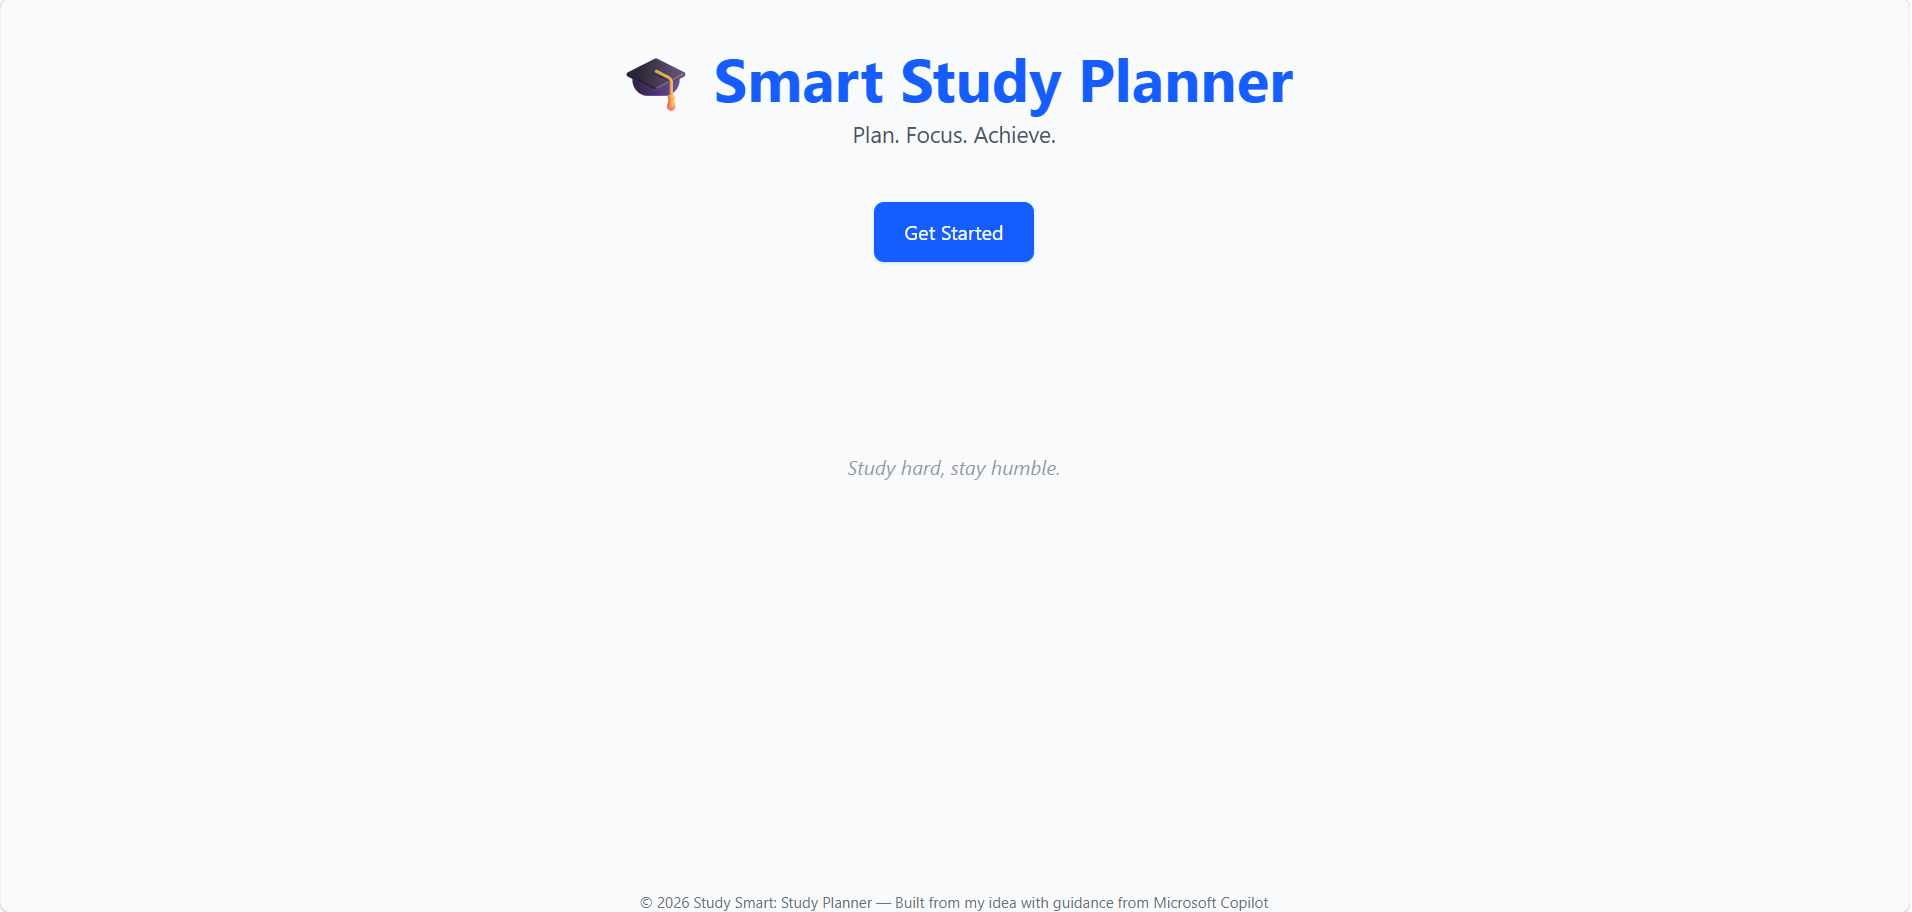
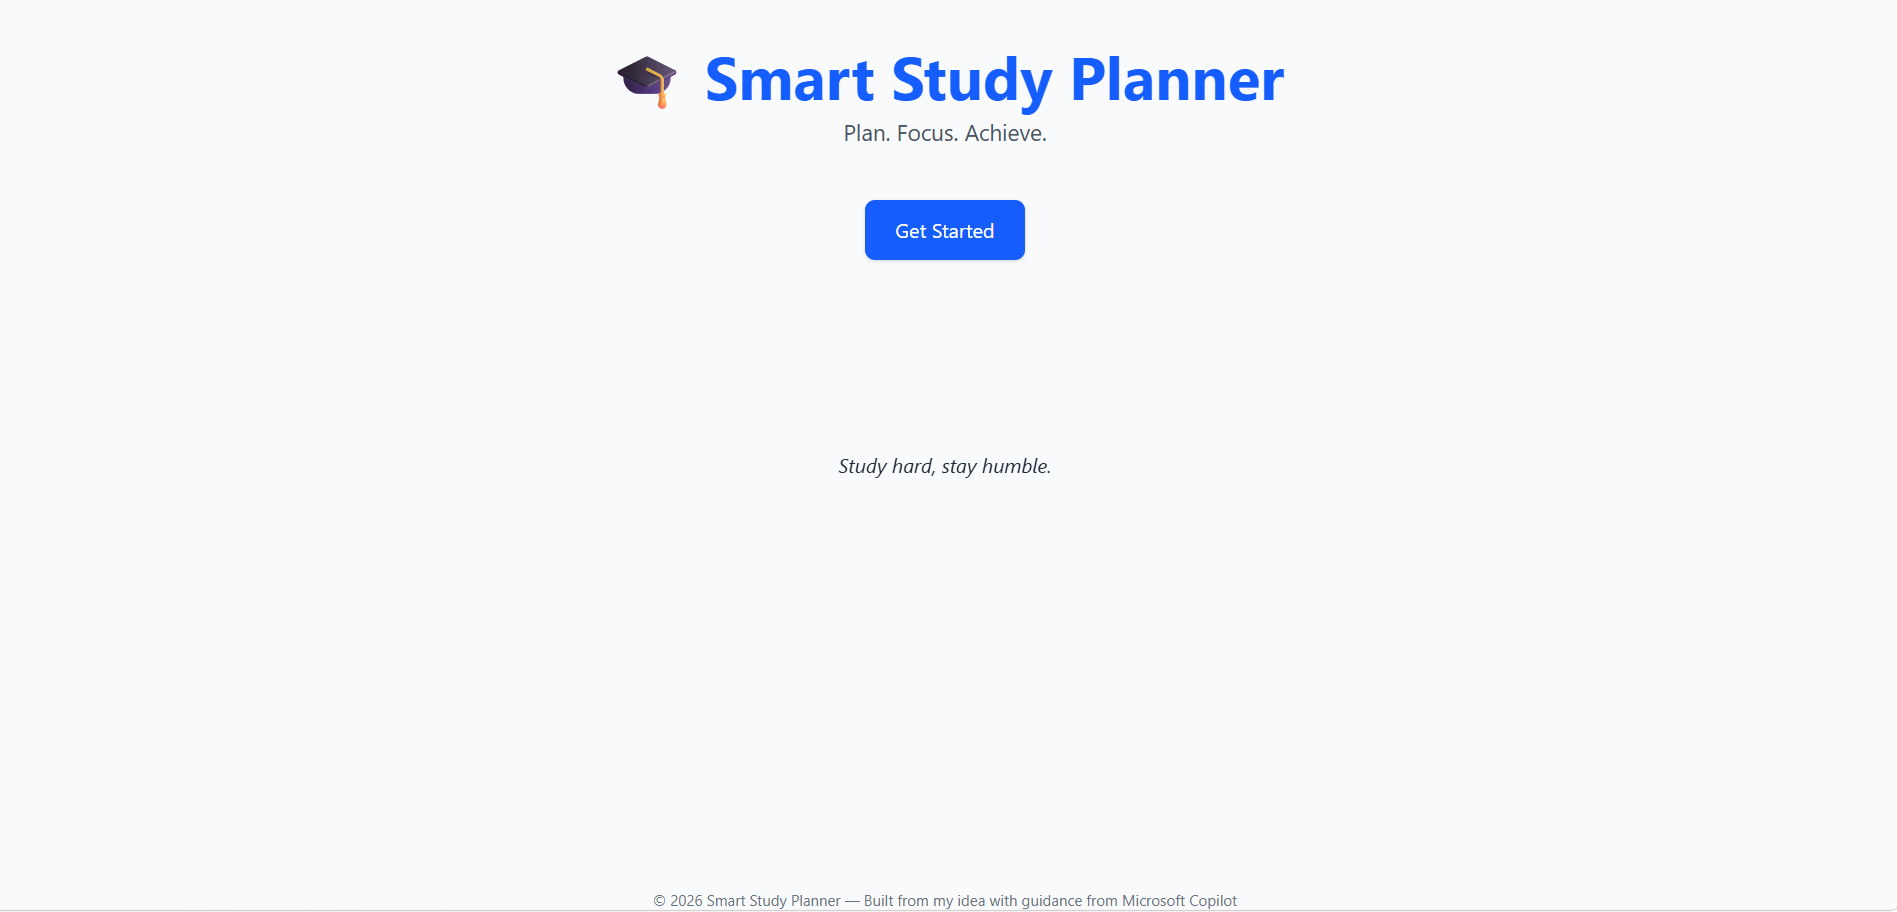
Update index and assets file

diff --git a/index.html b/index.html
@@ -30,7 +30,7 @@
 
   <!-- Footer -->
   <footer class="text-center text-xs text-gray-500 mt-6">
-  © 2026 Study Smart: Study Planner — Built from my idea with guidance from Microsoft Copilot
+  © 2026 Smart Study Planner — Built from my idea with guidance from Microsoft Copilot
 </footer>
 
 
